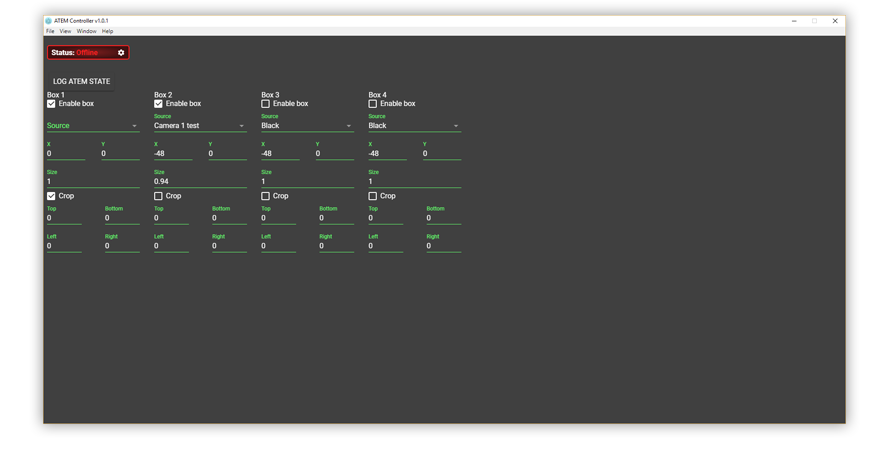
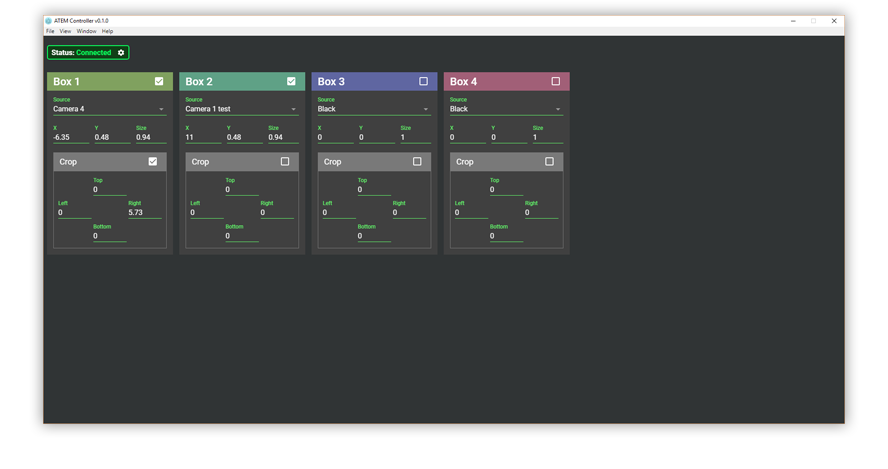
UI improvements

diff --git a/app/client/elements/atem-supersource-box-properties.html b/app/client/elements/atem-supersource-box-properties.html
@@ -12,90 +12,172 @@
 		<style include="iron-flex iron-flex-alignment">
 			:host {
 				@apply --layout-vertical;
+				background-color: #404040;
+			}
+
+			.header {
+				--paper-checkbox-checkmark-color: #797979;
+				@apply --layout-center;
+				@apply --layout-horizontal;
+				background: #797979;
+				height: 41px;
+				padding: 0 14px;
+			}
+
+			.header-title {
+				@apply --layout-flex;
+				color: #FFFFFF;
+				font-size: 18px;
+				font-style: normal;
+				font-weight: normal;
+				line-height: normal;
+				overflow: hidden;
+				text-overflow: ellipsis;
+
+			}
+
+			#header {
+				--paper-checkbox-checkmark-color: var(--atem-supersource-box-properties-header-color);
+				background: var(--atem-supersource-box-properties-header-color);
+			}
+
+			#title {
+				font-size: 24px;
+				font-weight: 500;
+			}
+
+			#enabled {
+				@apply --layout-flex-none;
+				margin-left: 0.5em;
+			}
+
+			#body {
+				padding: 0 14px 14px;
+				@apply --layout-vertical;
+			}
+
+			#x {
+				margin-right: 6px;
+			}
+
+			#y {
+				margin: 0 6px;
+			}
+
+			#size {
+				margin-left: 6px;
+			}
+
+			#crop {
+				margin-top: 12px;
+			}
+
+			#crop-body {
+				@apply --layout-center;
+				@apply --layout-horizontal;
+				border: 1px solid #797979;
+				height: 165px;
+				padding: 0 10px 5px;
+			}
+
+			#cropLeft {
+				margin-right: 2px;
+			}
+
+			#cropRight {
+				margin-left: 2px;
 			}
 		</style>
 
-		<div id="title">Box [[_addOne(boxId)]]</div>
-
-		<paper-checkbox id="enabled" checked="[[boxState.enabled]]">Enable box</paper-checkbox>
-
-		<paper-dropdown-menu label="Source">
-			<paper-listbox id="source" slot="dropdown-content" selected="[[boxState.source]]" on-selected-changed="take">
-				<template is="dom-repeat" items="[[atemState.inputs]]" as="input">
-					<paper-item>[[input.longName]]</paper-item>
-				</template>
-			</paper-listbox>
-		</paper-dropdown-menu>
-
-		<div class="layout horizontal justified">
-			<paper-input
-				id="x"
-				label="X"
-				type="number"
-				min="-48"
-				max="48"
-				step="0.01">
-			</paper-input>
-
-			<paper-input
-				id="y"
-				label="Y"
-			 	type="number"
-				min="-27"
-				max="27"
-				step="0.01">
-			</paper-input>
+		<div id="header" class="header">
+			<div id="title" class="header-title">Box [[_addOne(boxId)]]</div>
+			<paper-checkbox id="enabled" checked="[[boxState.enabled]]"></paper-checkbox>
 		</div>
 
-		<paper-input
-			id="size"
-			label="Size"
-			type="number"
-			min="0.07"
-			max="1"
-			step="0.01">
-		</paper-input>
+		<div id="body">
+			<paper-dropdown-menu label="Source">
+				<paper-listbox id="source" slot="dropdown-content" selected="[[boxState.source]]" on-selected-changed="take">
+					<template is="dom-repeat" items="[[atemState.inputs]]" as="input">
+						<paper-item>[[input.longName]]</paper-item>
+					</template>
+				</paper-listbox>
+			</paper-dropdown-menu>
 
-		<paper-checkbox id="cropped" checked="[[boxState.cropped]]">Crop</paper-checkbox>
+			<div class="layout horizontal justified">
+				<paper-input
+					id="x"
+					label="X"
+					type="number"
+					min="-48"
+					max="48"
+					step="0.01">
+				</paper-input>
 
-		<div class="layout horizontal justified">
-			<paper-input
-				id="cropTop"
-				label="Top"
-				type="number"
-				min="0"
-				max="18"
-				step="0.01">
-			</paper-input>
+				<paper-input
+					id="y"
+					label="Y"
+					type="number"
+					min="-27"
+					max="27"
+					step="0.01">
+				</paper-input>
 
-			<paper-input
-				id="cropBottom"
-				label="Bottom"
-				type="number"
-				min="0"
-				max="18"
-				step="0.01">
-			</paper-input>
-		</div>
+				<paper-input
+					id="size"
+					label="Size"
+					type="number"
+					min="0.07"
+					max="1"
+					step="0.01">
+				</paper-input>
+			</div>
 
-		<div class="layout horizontal justified">
-			<paper-input
-				id="cropLeft"
-				label="Left"
-				type="number"
-				min="0"
-				max="32"
-				step="0.01">
-			</paper-input>
+			<div id="crop">
+				<div class="header">
+					<div class="header-title">Crop</div>
+					<paper-checkbox id="cropped" checked="[[boxState.cropped]]"></paper-checkbox>
+				</div>
 
-			<paper-input
-				id="cropRight"
-				label="Right"
-				type="number"
-				min="0"
-				max="32"
-				step="0.01">
-			</paper-input>
+				<div id="crop-body">
+					<paper-input
+						id="cropLeft"
+						label="Left"
+						type="number"
+						min="0"
+						max="32"
+						step="0.01">
+					</paper-input>
+
+					<div class="layout vertical justified self-stretch" style="margin: 0 2px;">
+						<paper-input
+							id="cropTop"
+							label="Top"
+							type="number"
+							min="0"
+							max="18"
+							step="0.01">
+						</paper-input>
+
+						<paper-input
+							id="cropBottom"
+							label="Bottom"
+							type="number"
+							min="0"
+							max="18"
+							step="0.01">
+						</paper-input>
+					</div>
+
+					<paper-input
+						id="cropRight"
+						label="Right"
+						type="number"
+						min="0"
+						max="32"
+						step="0.01">
+					</paper-input>
+				</div>
+			</div>
 		</div>
 	</template>
 

diff --git a/app/server/atem.js b/app/server/atem.js
@@ -10,6 +10,18 @@ let mainWindow;
 let lastAtemStatus = '';
 let stateChangesWaiting = false;
 
+atem.socket.on('disconnect', () => {
+	setATEMConnectionStatus('offline');
+});
+
+atem.socket.on('reconnect', () => {
+	setATEMConnectionStatus('connecting');
+});
+
+atem.socket.on('connect', () => {
+	setATEMConnectionStatus('connected');
+});
+
 module.exports = {
 	async init(mw) {
 		mainWindow = mw;
@@ -20,15 +32,11 @@ module.exports = {
 
 		ipcMain.on('init', () => {
 			log.debug('Received "init" message from main window');
+			sendToMainWindow('atem-connection-status', lastAtemStatus);
 			sendToMainWindow('atem:stateChanged', atem.state);
 		});
 
-		ipcMain.on('logAtemState', () => {
-			console.log(atem.state.video);
-		});
-
 		ipcMain.on('atem:takeSuperSourceBoxProperties', (event, {boxId, properties}) => {
-			console.log(properties);
 			log.debug(`Attempting to take SSBP #${boxId}...`);
 			atem.setSuperSourceBoxSettings(properties, boxId).then(() => {
 				log.debug(`Successfully took SSBP #${boxId}`);
@@ -48,7 +56,7 @@ module.exports = {
 
 	setIpPort(ip, port) {
 		atem.connect(ip, port);
-		setX32ConnectionStatus('connecting');
+		setATEMConnectionStatus('connecting');
 		renewSubscriptions();
 	}
 };
@@ -62,14 +70,15 @@ function renewSubscriptions() {
 }
 
 function sendToMainWindow(...args) {
-	if (mainWindow.isDestroyed()) {
+	if (!mainWindow || mainWindow.isDestroyed()) {
 		return;
 	}
 
 	mainWindow.webContents.send(...args);
 }
 
-function setX32ConnectionStatus(newStatus) {
+function setATEMConnectionStatus(newStatus) {
+	console.log('setATEMConnectionStatus:', newStatus);
 	if (newStatus !== lastAtemStatus) {
 		sendToMainWindow('atem-connection-status', newStatus);
 		lastAtemStatus = newStatus;

diff --git a/app/client/elements/atem-app.html b/app/client/elements/atem-app.html
@@ -11,11 +11,11 @@
 	<template>
 		<style>
 			:host {
+				--paper-checkbox-checkmark-color: #404040;
+				--paper-listbox-color: black;
 				--primary-color: white;
 				--primary-text-color: white;
 				--secondary-text-color: #64FF6C;
-				--paper-checkbox-checkmark-color: #404040;
-				--paper-listbox-color: black;
 				@apply --layout-vertical;
 				color: white;
 				display: block;
@@ -34,14 +34,25 @@
 			}
 
 			atem-supersource-box-properties {
-				margin: 0 16px;
+				margin: 0 7px;
+				width: 280px;
 			}
 
 			atem-supersource-box-properties:first-of-type {
+				--atem-supersource-box-properties-header-color: #80A15F;
 				margin-left: 0;
 			}
 
+			atem-supersource-box-properties:nth-of-type(2) {
+				--atem-supersource-box-properties-header-color: #5FA186;
+			}
+
+			atem-supersource-box-properties:nth-of-type(3) {
+				--atem-supersource-box-properties-header-color: #5F66A1;
+			}
+
 			atem-supersource-box-properties:last-of-type {
+				--atem-supersource-box-properties-header-color: #A15F77;
 				margin-right: 0;
 			}
 		</style>
@@ -49,12 +60,6 @@
 		<atem-status id="status"></atem-status>
 
 		<h1>Hello world.</h1>
-
-		<paper-button
-			on-tap="logAtemState"
-			raised>
-			Log ATEM State
-		</paper-button>
 
 		<div id="boxProperties">
 			<template is="dom-repeat" items="[[atemState.video.superSourceBoxes]]" as="boxState">

diff --git a/app/client/elements/atem-app.js b/app/client/elements/atem-app.js
@@ -35,10 +35,6 @@
 			ipcRenderer.send('init');
 		}
 
-		logAtemState() {
-			ipcRenderer.send('logAtemState');
-		}
-
 		_handleUpdateDialogClosed(e) {
 			if (e.detail.confirmed) {
 				ipcRenderer.send('installUpdateNow');

diff --git a/app/client/elements/atem-status.js b/app/client/elements/atem-status.js
@@ -25,6 +25,7 @@
 			super.ready();
 			ipcRenderer.on('atem-connection-status', (event, status) => {
 				this.status = status;
+				console.log('new status:', status);
 			});
 
 			this.addEventListener('click', () => {

diff --git a/app/client/main.html b/app/client/main.html
@@ -8,7 +8,7 @@
 	<style>
 		body {
 			font-family: Roboto, sans-serif;
-			background: #404040;
+			background: #303435;
 		}
 	</style>
 </head>
